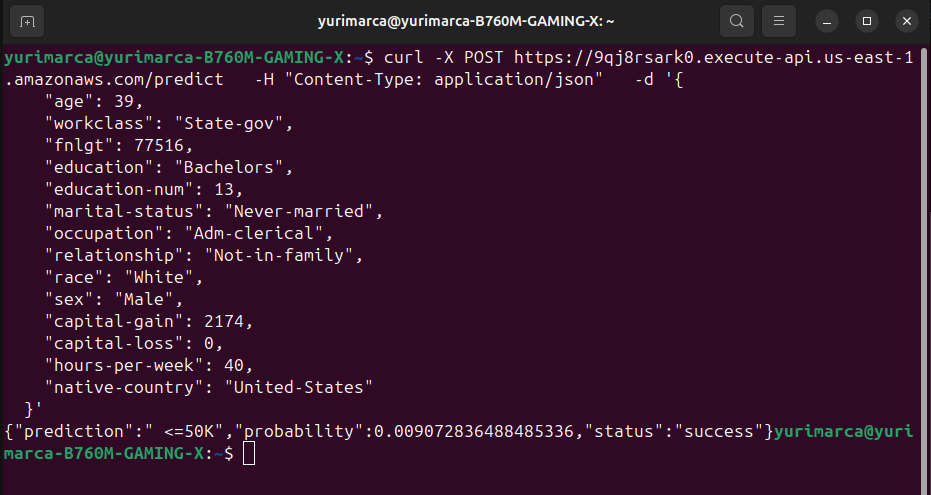
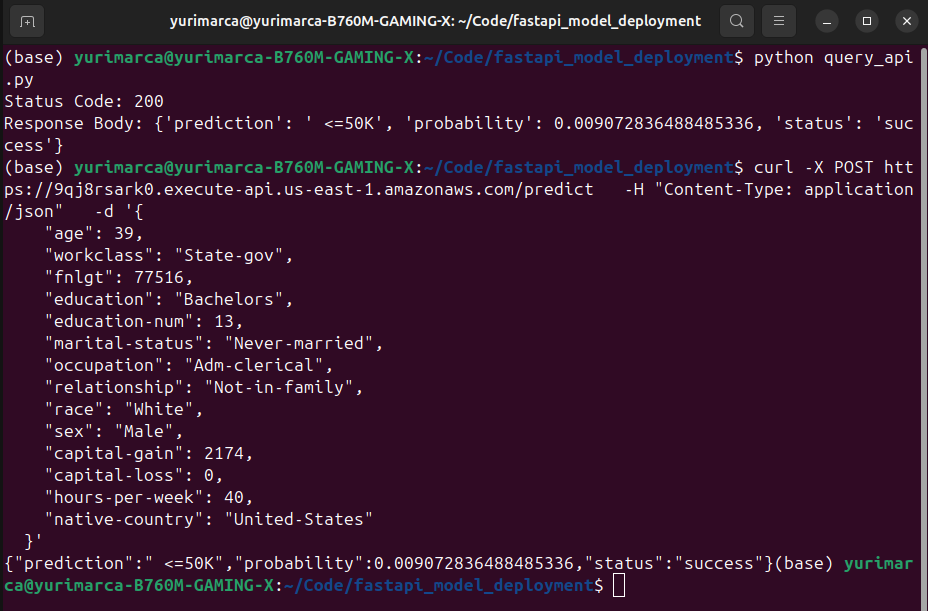
Added python script to test post predict api

Changed region(s): [[0.0, 0.0, 1.0, 1.0], [0.8438, 0.1818, 0.9062, 0.2121], [0.9062, 0.0303, 0.9375, 0.0606]]

diff --git a/query_api.py b/query_api.py
@@ -1,0 +1,30 @@
+import requests
+import json
+
+# Replace with your API endpoint
+API_URL = "https://9qj8rsark0.execute-api.us-east-1.amazonaws.com/predict"
+
+# Example payload
+payload = {
+    "age": 39,
+    "workclass": "State-gov",
+    "fnlgt": 77516,
+    "education": "Bachelors",
+    "education-num": 13,
+    "marital-status": "Never-married",
+    "occupation": "Adm-clerical",
+    "relationship": "Not-in-family",
+    "race": "White",
+    "sex": "Male",
+    "capital-gain": 2174,
+    "capital-loss": 0,
+    "hours-per-week": 40,
+    "native-country": "United-States"
+}
+
+# Send POST request
+response = requests.post(API_URL, headers={"Content-Type": "application/json"}, data=json.dumps(payload))
+
+# Display response
+print(f"Status Code: {response.status_code}")
+print(f"Response Body: {response.json()}")

diff --git a/README.md b/README.md
@@ -103,4 +103,4 @@ The model card follows the provided template and is written in complete sentence
   - [`live_post.png`](screenshots/live_post.png): A screenshot of the result and status code from the API POST request.
 
 - **API Query Script:**  
-  A script that uses the `requests` module to POST data to the API and display both the model inference result and the status code is included in the repository. This verifies that the API is live and functioning as expected.
+  A Python script is included in the repository to query the API and verify its functionality. The script sends a POST request to the API and displays both the model inference result and the status code. You can find the script at [`query_api.py`](query_api.py).  
